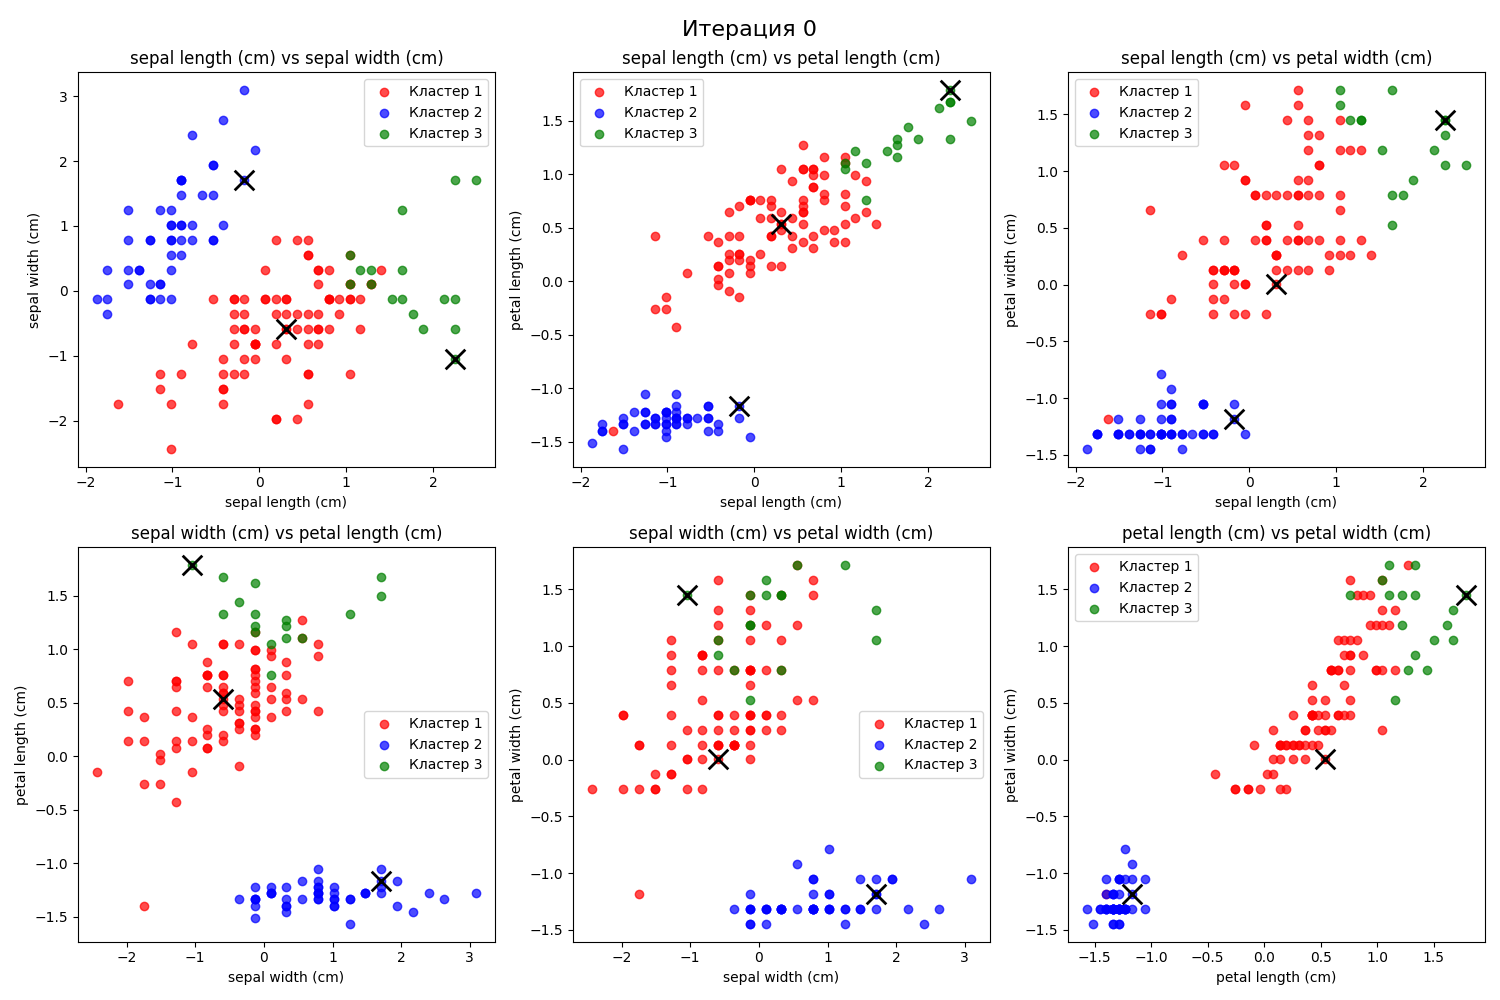
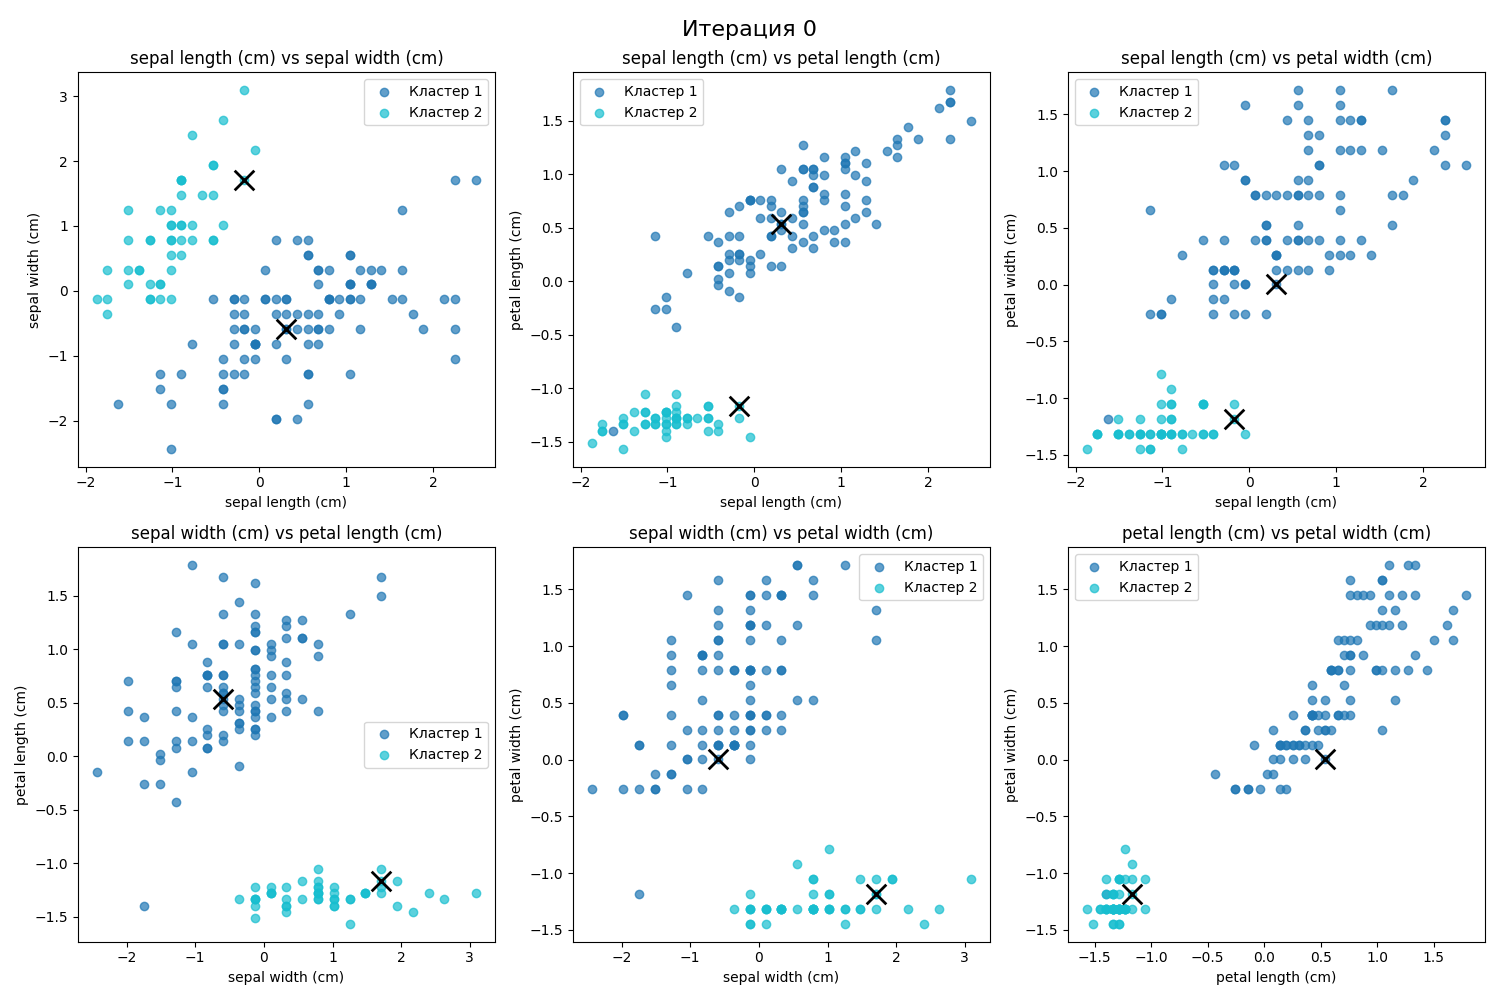
some fix

diff --git a/homework/first/homework_1.py b/homework/first/homework_1.py
@@ -10,7 +10,7 @@ from PIL import Image
 
 
 def find_optimal_k(X, k_range=range(2, 11)):
-    print("Определение оптимального количества кластеров (для демонстрации)...")
+    print("Определение оптимального количества кластеров...")
     inertia = []
     silhouette_scores = []
 
@@ -21,7 +21,7 @@ def find_optimal_k(X, k_range=range(2, 11)):
         silhouette_scores.append(silhouette_score(X, kmeans.labels_))
 
     optimal_k = k_range[np.argmax(silhouette_scores)]
-    print(f'Оптимальное количество кластеров (для демонстрации): {optimal_k}')
+    print(f'Оптимальное количество кластеров: {optimal_k}')
 
     # Визуализация методов
     plt.figure(figsize=(12, 5))
@@ -43,15 +43,18 @@ def find_optimal_k(X, k_range=range(2, 11)):
     return optimal_k
 
 
-def manual_kmeans(X, K=3, max_iter=10, tol=1e-6):
-    print("\nЗапуск ручной реализации K-means (3 кластера)...")
+def manual_kmeans(X, K=None, max_iter=10, tol=1e-6):
+    if K is None:
+        K = find_optimal_k(X)
+
+    print(f"\nЗапуск ручной реализации K-means ({K} кластера)...")
 
     # Стандартизация данных
     X_scaled = StandardScaler().fit_transform(X)
     n_samples, n_features = X_scaled.shape
 
-    # Цвета для кластеров (фиксированные 3 цвета)
-    colors = ['red', 'blue', 'green']
+    # Цвета для кластеров
+    colors = plt.colormaps['tab10'].resampled(K).colors
 
     # Инициализация центроидов
     np.random.seed(42)
@@ -112,11 +115,11 @@ def manual_kmeans(X, K=3, max_iter=10, tol=1e-6):
     images[0].save('kmeans_animation.gif', save_all=True, append_images=images[1:],
                    optimize=False, duration=1000, loop=0)
 
-    return labels, centroids
+    return labels, centroids, K
 
 
-def final_visualization(X, labels, centroids, K=3):
-    print("\nФинальная визуализация (3 кластера)...")
+def final_visualization(X, labels, centroids, K):
+    print(f"\nФинальная визуализация ({K} кластера)...")
 
     # Стандартизация данных
     X_scaled = StandardScaler().fit_transform(X)
@@ -125,8 +128,8 @@ def final_visualization(X, labels, centroids, K=3):
     # Все возможные пары признаков для визуализации
     feature_pairs = list(combinations(range(n_features), 2))
 
-    # Цвета для кластеров (фиксированные 3 цвета)
-    colors = ['red', 'blue', 'green']
+    # Цвета для кластеров
+    colors = plt.colormaps['tab10'].resampled(K).colors
 
     # Финальная визуализация всех проекций
     print("Создание финальной визуализации...")
@@ -144,7 +147,7 @@ def final_visualization(X, labels, centroids, K=3):
         plt.title(f'{iris.feature_names[f1]} vs {iris.feature_names[f2]}')
         plt.legend()
 
-    plt.suptitle('Финальный результат кластеризации - все проекции (3 кластера)', fontsize=16)
+    plt.suptitle(f'Финальный результат кластеризации - все проекции ({K} кластера)', fontsize=16)
     plt.tight_layout()
     plt.savefig('final_clusters.png')
     plt.show()
@@ -154,14 +157,11 @@ if __name__ == "__main__":
     iris = load_iris()
     X = iris.data
 
-    # Определение оптимального K
-    optimal_k = find_optimal_k(X)
+    # Ручной K-means с автоматическим определением оптимального K
+    cluster_labels, cluster_centroids, optimal_k = manual_kmeans(X)
 
-    # Ручной K-means (3 кластера)
-    cluster_labels, cluster_centroids = manual_kmeans(X)
-
-    # Финальная визуализация (3 кластера)
-    final_visualization(X, cluster_labels, cluster_centroids)
+    # Финальная визуализация
+    final_visualization(X, cluster_labels, cluster_centroids, optimal_k)
 
     print("\nГотово! Результаты сохранены в файлы:")
     print("- kmeans_animation.gif (анимация процесса кластеризации)")
